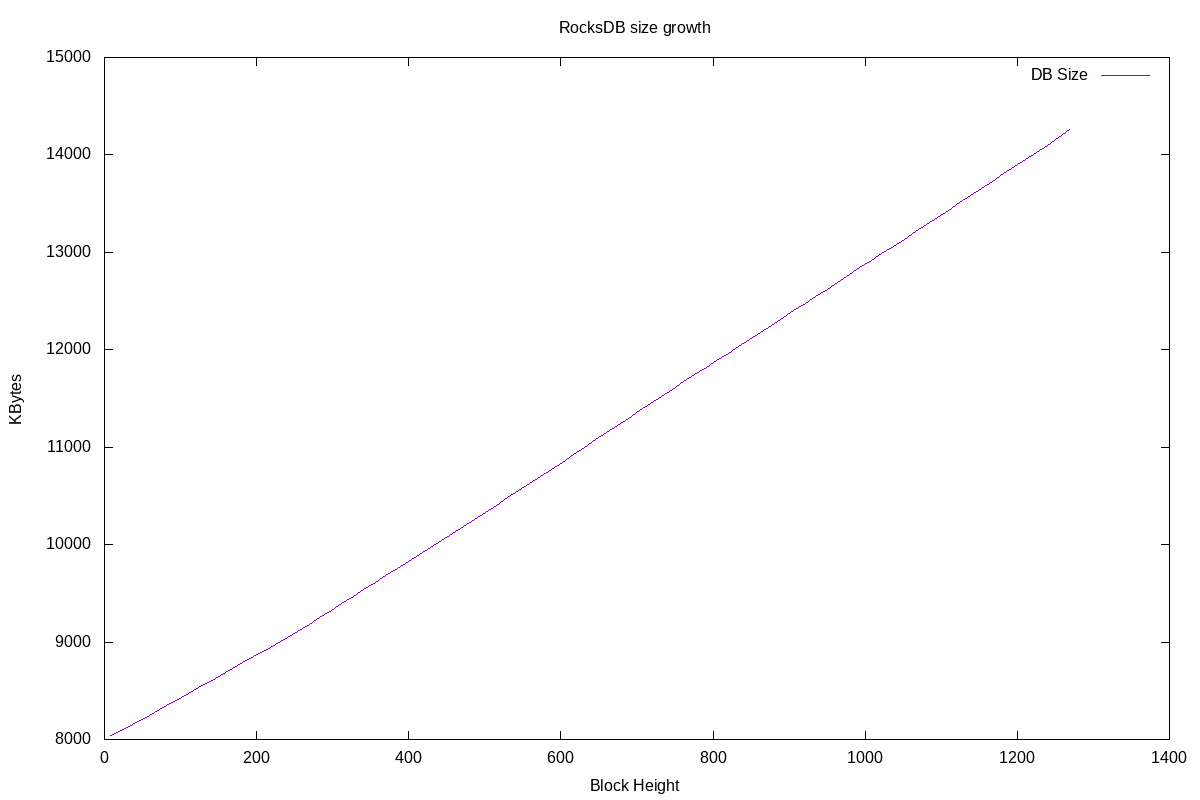
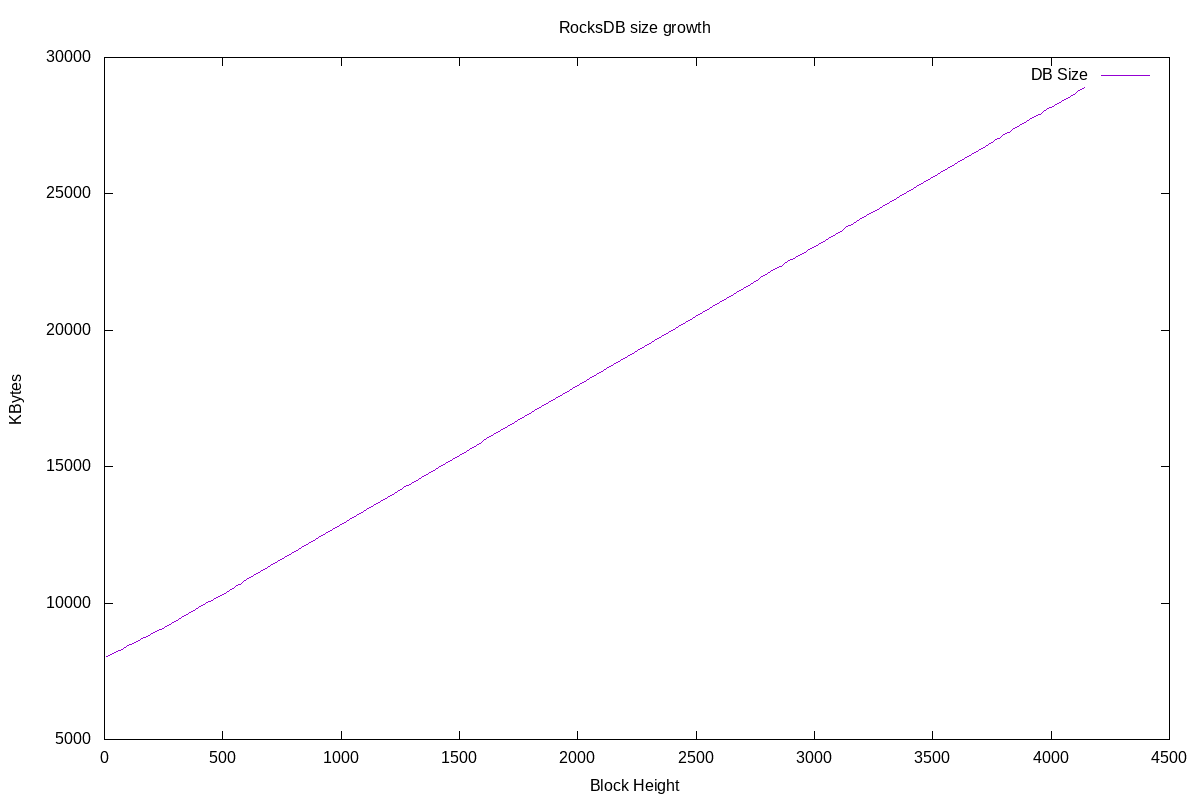
ENG-798: Calculate stats based on diff

diff --git a/fendermint/testing/benchmarks/state-size/README.md b/fendermint/testing/benchmarks/state-size/README.md
@@ -33,8 +33,12 @@ make plot-measurements
 ### Print statistics
 
 ```console
-❯ make stats STATE_HIST_SIZE=0
-{"block_height":1863,"db_size_kb":17276,"avg_growth_kb":9.273215244229737}
+❯ make stats
+{
+  "block_height": 4055,
+  "db_size_kb": 28444,
+  "avg_growth_kb": 5.042747714356313
+}
 ```
 
 ### Stop the node
